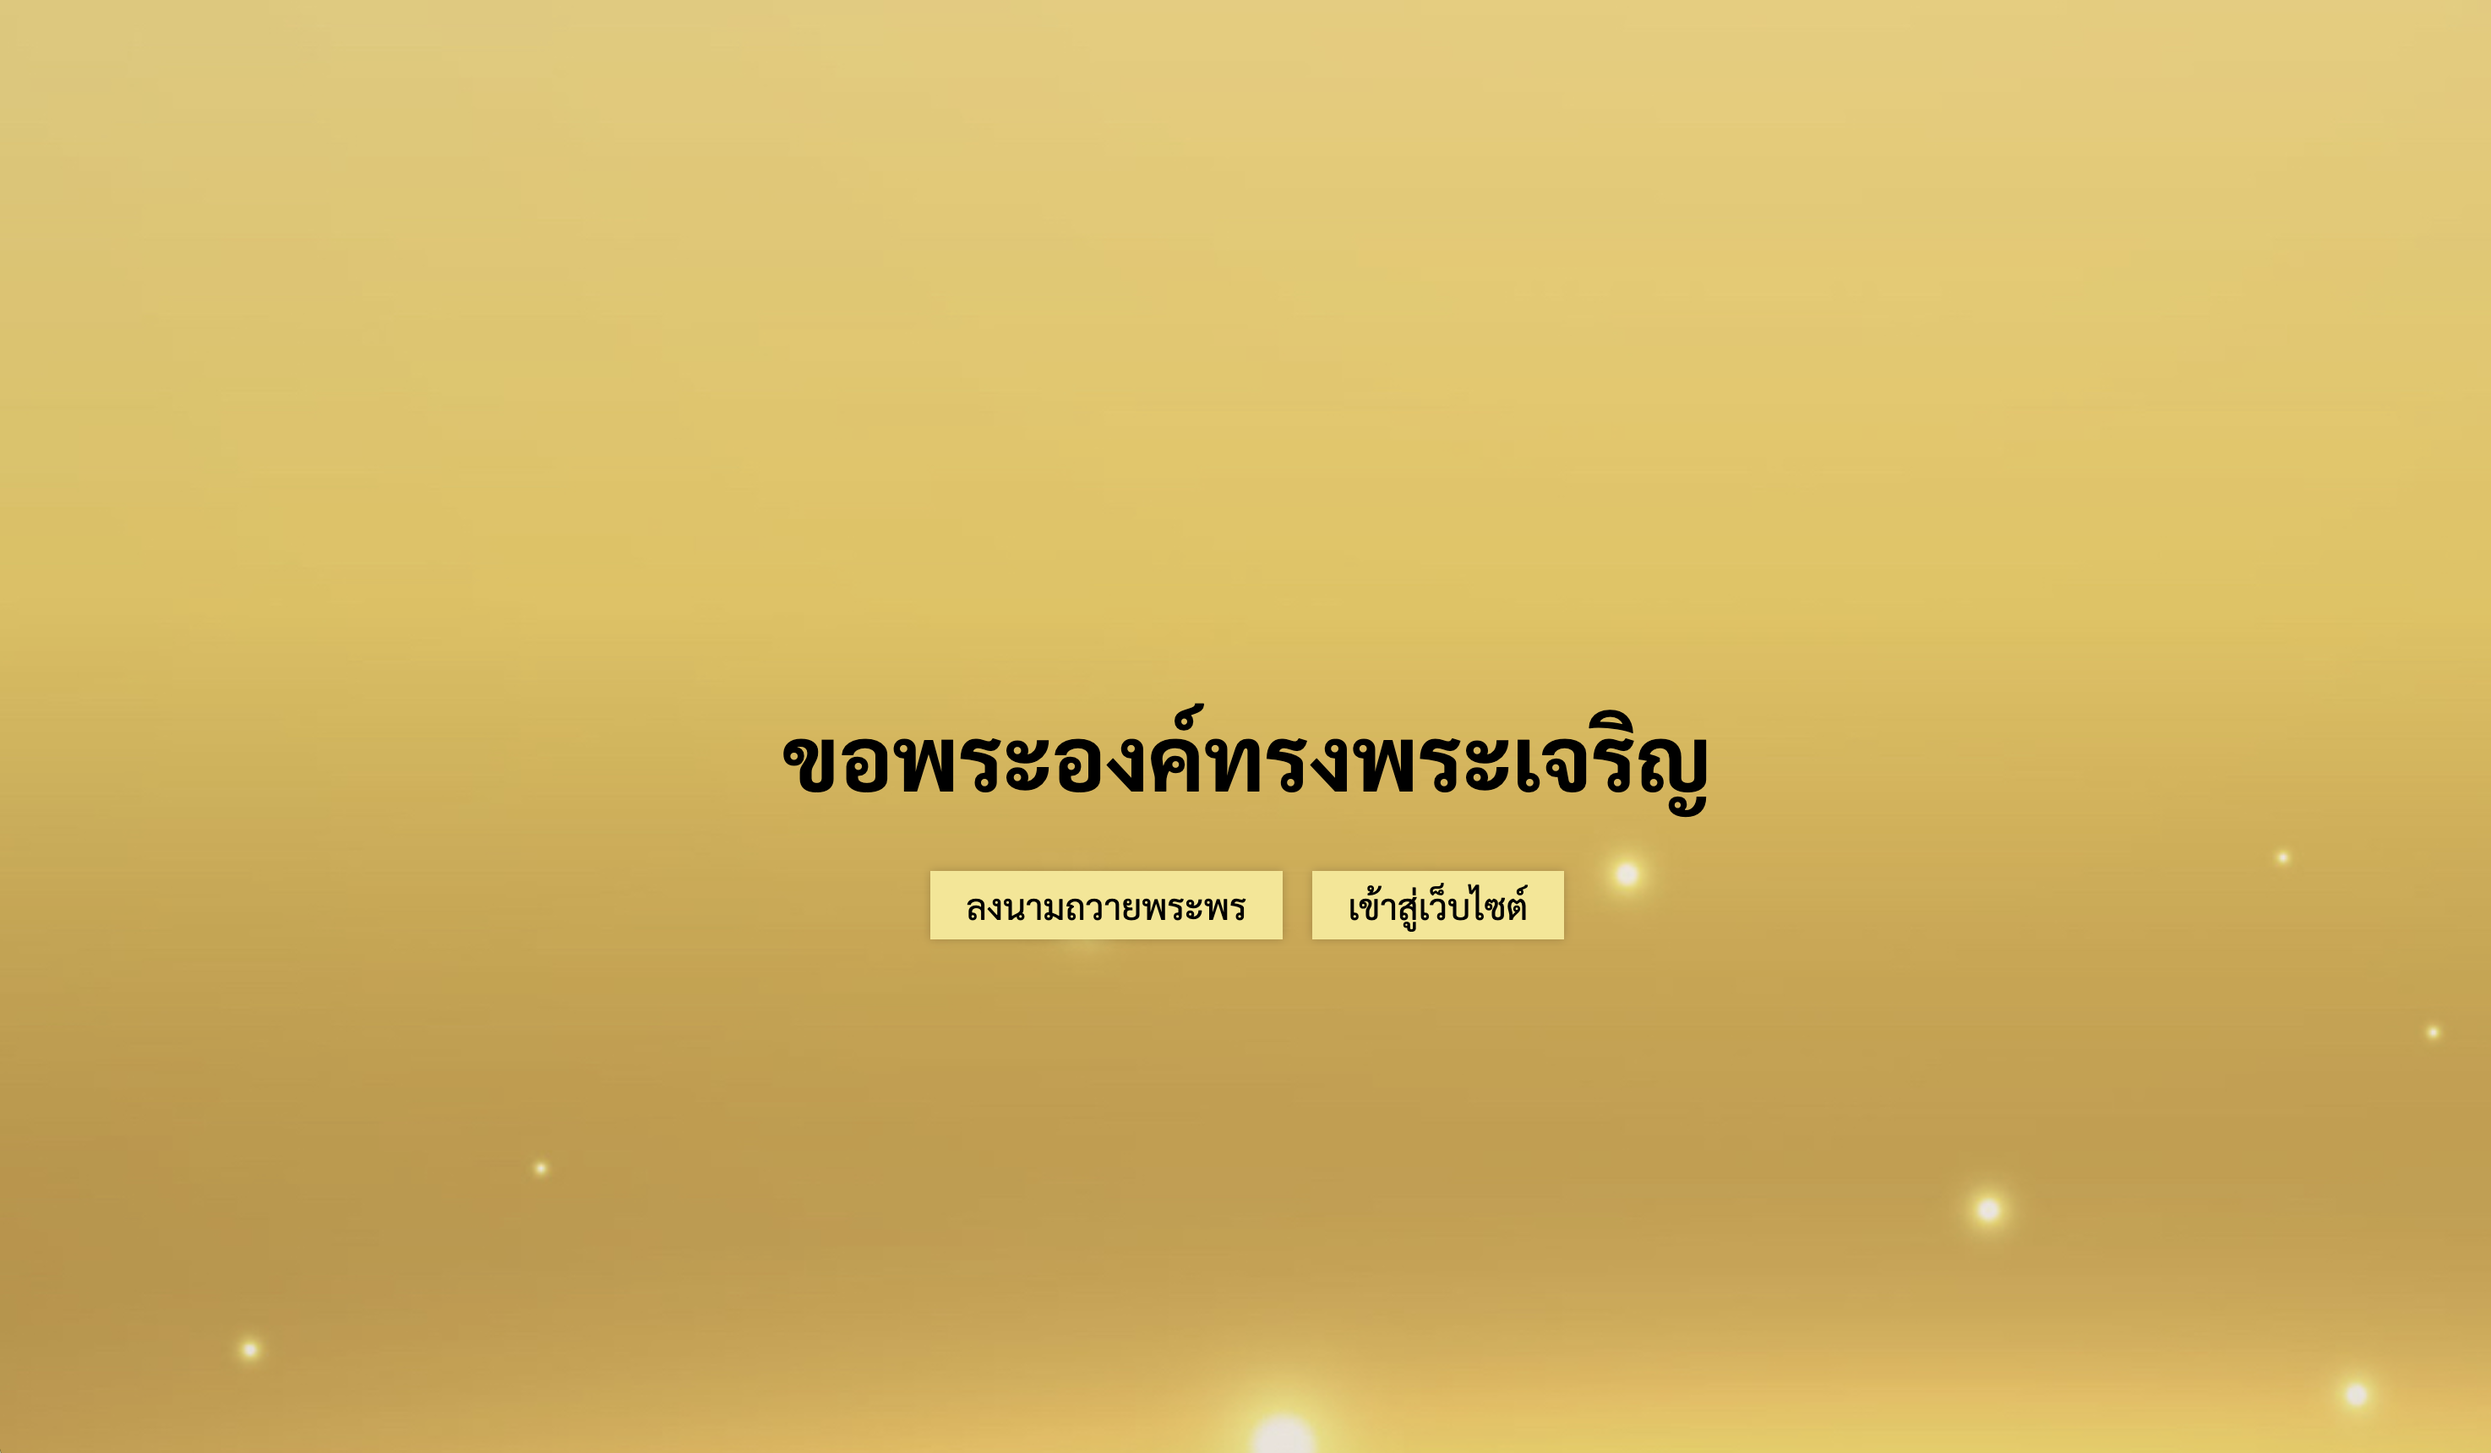
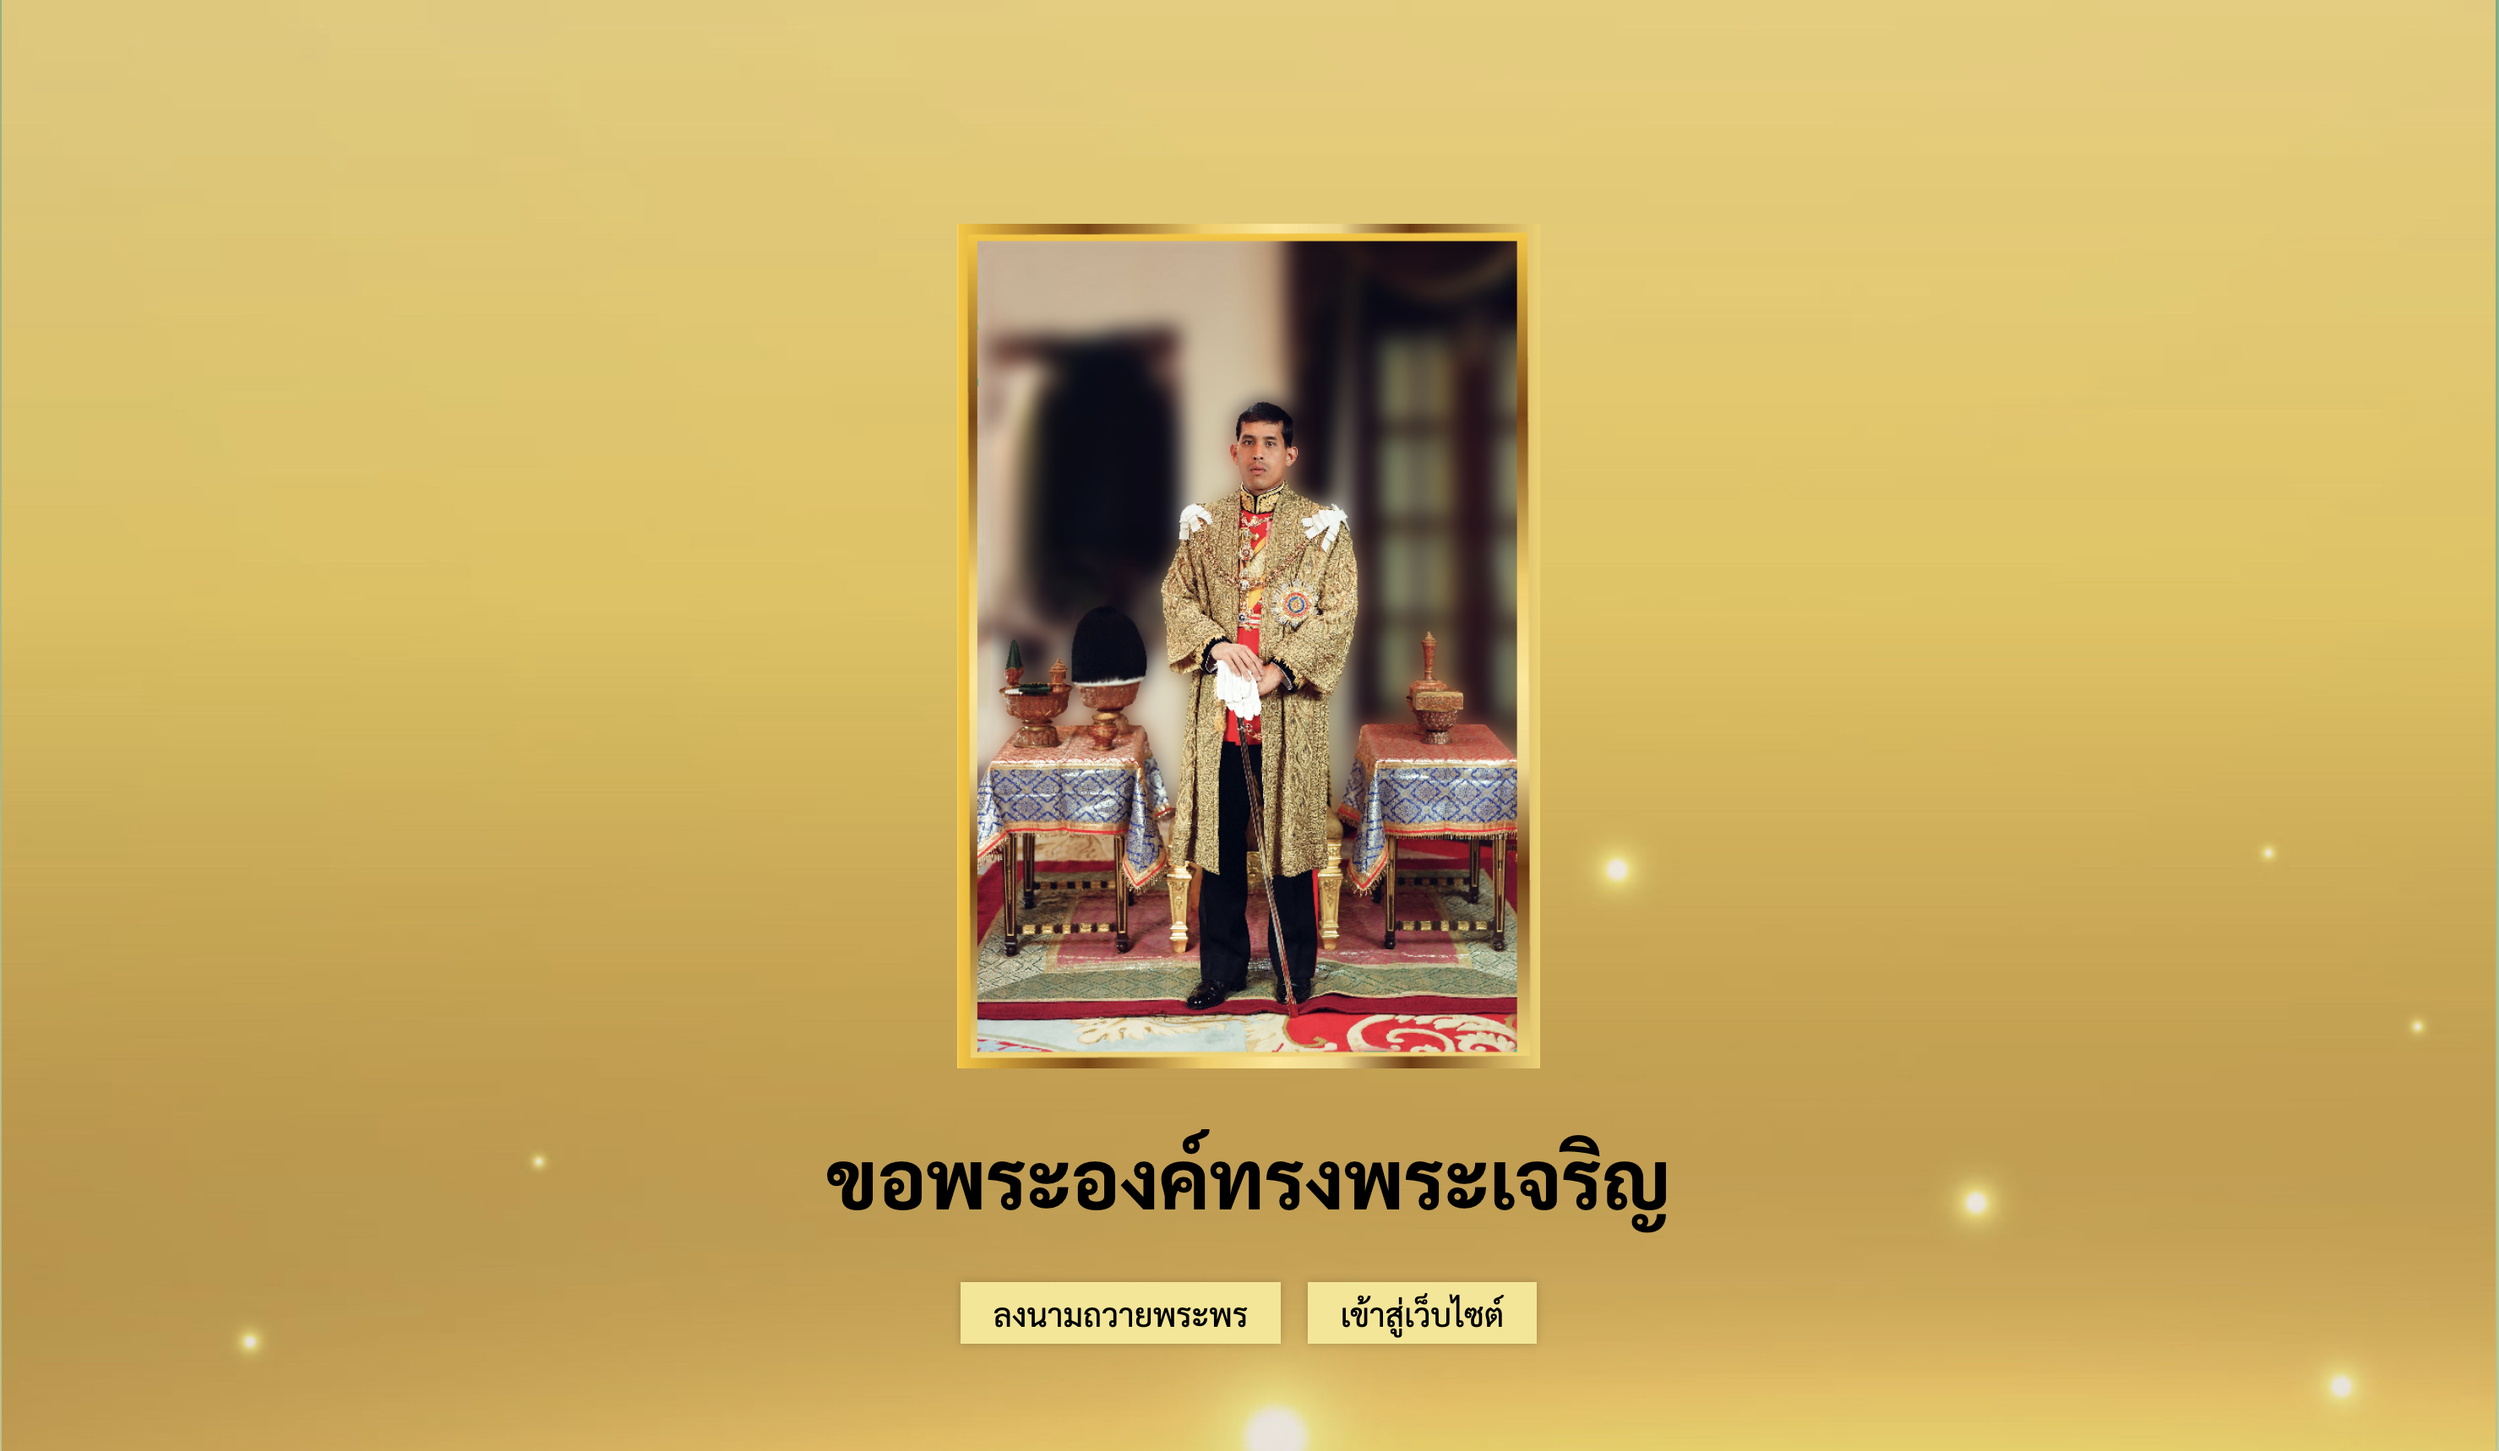
docs: sample image update

diff --git a/examples/test.html b/examples/test.html
@@ -11,10 +11,11 @@
     <script>
       window.RoyalSplashScreenOptions = {
         signing: true,
+        theme: 'sky',
 
         themeSettings: {
-          heroImageUrl:
-            'https://bizid.egov.go.th/CoverPage/images/intro-king-10-02.jpg',
+          // heroImageUrl:
+          //   'https://bizid.egov.go.th/CoverPage/images/intro-king-10-02.jpg',
         },
       }
     </script>
